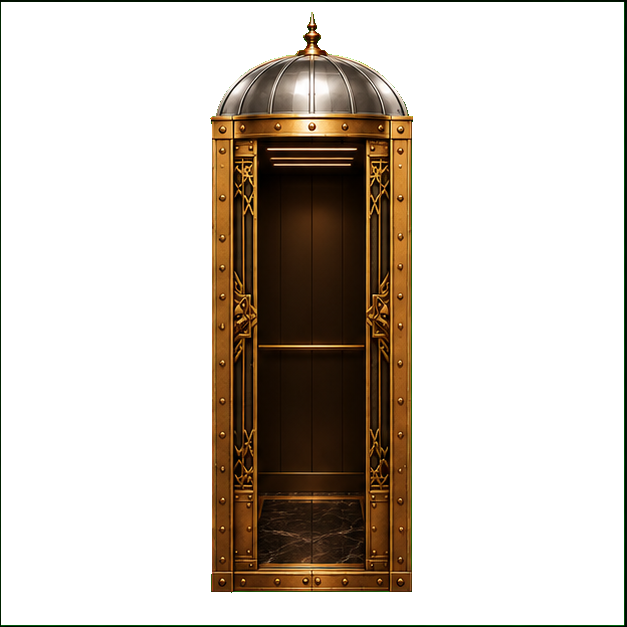
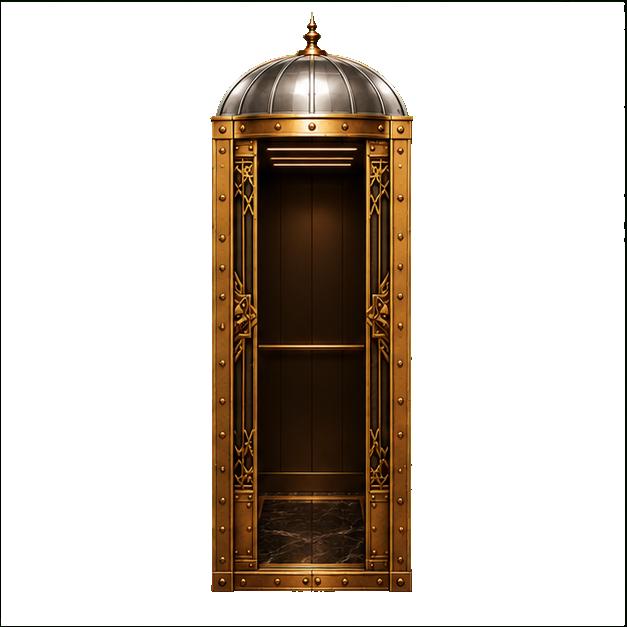
Fox Pit: elevator interior + door animation on click (ride to floor)
- Chroma-key the door frames (closed/mid1/mid2/open) to transparency.
- Click the car -> ElevatorRide: ornate doors slide OPEN to the brass interior ->
  pick a floor -> doors CLOSE -> car travels -> arrive routes into the room's
  usher->boss sequence. Replaces the plain floor-select grid on the elevator tap.

diff --git a/src/app/app/foxpit/map/Map.tsx b/src/app/app/foxpit/map/Map.tsx
@@ -37,6 +37,7 @@ export function FoxPitMap({ lone = false }: { lone?: boolean }) {
   const [hud, setHud] = useState(true);
   const [floorSelect, setFloorSelect] = useState(false);
   const [elevatorLocked, setElevatorLocked] = useState(false);
+  const [elevatorRide, setElevatorRide] = useState(false);
   // Fast-travel elevator activates only once the High Table is CLEARED (beaten),
   // independent of the architect door-unlock override.
   const elevatorUnlocked = cleared.has(ELEVATOR_UNLOCK_AT);
@@ -330,7 +331,7 @@ export function FoxPitMap({ lone = false }: { lone?: boolean }) {
             The car's BOTTOM rests on each landing (translateY(-100%) anchors bottom
             to the top:% line). Locked until the High Table is cleared (parked + dimmed). */}
         <button
-          onClick={() => (elevatorUnlocked ? setFloorSelect(true) : setElevatorLocked(true))}
+          onClick={() => (elevatorUnlocked ? setElevatorRide(true) : setElevatorLocked(true))}
           aria-label="Elevator"
           style={{
             position: "absolute",
@@ -424,6 +425,15 @@ export function FoxPitMap({ lone = false }: { lone?: boolean }) {
             setFloorSelect(false);
             enter(k);
           }}
+        />
+      )}
+
+      {elevatorRide && (
+        <ElevatorRide
+          lone={lone}
+          cleared={cleared}
+          onClose={() => setElevatorRide(false)}
+          onArrive={(k) => { setElevatorRide(false); enter(k); }}
         />
       )}
 
@@ -638,6 +648,102 @@ function FloorSelectPanel({
         >
           Close
         </button>
+      </div>
+    </div>
+  );
+}
+
+/** Door-open frame sequence (closed → open); reversed to close. */
+const ELEVATOR_FRAMES = [
+  "/foxpit/elevator/door-closed.png",
+  "/foxpit/elevator/door-mid1.png",
+  "/foxpit/elevator/door-mid2.png",
+  "/foxpit/elevator/door-open.png",
+];
+
+/**
+ * Elevator interior + ride. Click the car → the ornate doors slide OPEN to the
+ * brass interior → pick a floor → doors CLOSE → the car travels → arrive (routes
+ * into that room's usher→boss door sequence).
+ */
+function ElevatorRide({
+  lone,
+  cleared,
+  onClose,
+  onArrive,
+}: {
+  lone: boolean;
+  cleared: Set<FoxPitRoomKey>;
+  onClose: () => void;
+  onArrive: (k: FoxPitRoomKey) => void;
+}) {
+  const [phase, setPhase] = useState<"opening" | "select" | "closing" | "riding">("opening");
+  const [frame, setFrame] = useState(0);
+  const [dest, setDest] = useState<FoxPitRoomKey | null>(null);
+
+  // doors open: 0 → last
+  useEffect(() => {
+    if (phase !== "opening") return;
+    if (frame < ELEVATOR_FRAMES.length - 1) {
+      const t = setTimeout(() => setFrame((f) => f + 1), 240);
+      return () => clearTimeout(t);
+    }
+    const t = setTimeout(() => setPhase("select"), 350);
+    return () => clearTimeout(t);
+  }, [phase, frame]);
+
+  // doors close: last → 0
+  useEffect(() => {
+    if (phase !== "closing") return;
+    if (frame > 0) {
+      const t = setTimeout(() => setFrame((f) => f - 1), 240);
+      return () => clearTimeout(t);
+    }
+    const t = setTimeout(() => setPhase("riding"), 300);
+    return () => clearTimeout(t);
+  }, [phase, frame]);
+
+  // travel, then arrive at the floor
+  useEffect(() => {
+    if (phase !== "riding" || !dest) return;
+    const t = setTimeout(() => onArrive(dest), 1700);
+    return () => clearTimeout(t);
+  }, [phase, dest, onArrive]);
+
+  const pick = (k: FoxPitRoomKey) => { setDest(k); setPhase("closing"); };
+
+  return (
+    <div style={{ position: "fixed", inset: 0, zIndex: 85, background: "#05070b", display: "flex", alignItems: "center", justifyContent: "center" }}>
+      {phase === "select" && (
+        <button onClick={onClose} aria-label="Close" style={{ position: "absolute", top: 16, right: 14, zIndex: 3, border: "1px solid rgba(200,162,75,.5)", background: "rgba(3,4,7,.6)", color: "#d8c79b", borderRadius: 10, padding: "6px 12px", fontSize: 18, fontWeight: 700, cursor: "pointer" }}>✕</button>
+      )}
+
+      <div style={{ position: "relative", height: "92%", aspectRatio: "1 / 1", maxWidth: "100%" }}>
+        {/* eslint-disable-next-line @next/next/no-img-element */}
+        <img src={ELEVATOR_FRAMES[frame]} alt="Elevator" draggable={false} style={{ position: "absolute", inset: 0, width: "100%", height: "100%", objectFit: "contain", filter: "drop-shadow(0 0 44px rgba(200,162,75,.22))" }} />
+
+        {phase === "select" && (
+          <div style={{ position: "absolute", left: "50%", top: "45%", transform: "translate(-50%,-50%)", width: "60%", display: "flex", flexDirection: "column", gap: 8, animation: "foxpitFadeUp .5s ease both" }}>
+            <div style={{ textAlign: "center", fontSize: 11, letterSpacing: ".18em", color: "#e0cf9f", fontWeight: 800, textShadow: "0 2px 6px #000" }}>SELECT A FLOOR</div>
+            {FOXPIT_ROOMS.slice().reverse().map((r) => {
+              const unlocked = lone || isUnlocked(r, cleared);
+              const done = cleared.has(r.key);
+              return (
+                <button key={r.key} onClick={() => unlocked && pick(r.key)} disabled={!unlocked}
+                  style={{ display: "flex", alignItems: "center", justifyContent: "space-between", gap: 8, padding: "9px 12px", borderRadius: 10, cursor: unlocked ? "pointer" : "not-allowed", background: "rgba(6,8,12,.82)", border: `1.5px solid ${done ? "#22C55E" : unlocked ? r.accent : "#3a4653"}`, color: "#E7E7EB", filter: unlocked ? "none" : "grayscale(.5) brightness(.7)" }}>
+                  <span style={{ fontFamily: "Georgia, serif", fontSize: 14, fontWeight: 700 }}>{r.name}</span>
+                  <span style={{ fontSize: 10, fontWeight: 800, letterSpacing: ".06em", color: done ? "#22C55E" : unlocked ? r.accent : "#c8a24b" }}>{done ? "✓" : unlocked ? "GO ›" : `${keyLabel(r.needsKey!)} KEY`}</span>
+                </button>
+              );
+            })}
+          </div>
+        )}
+
+        {phase === "riding" && (
+          <div style={{ position: "absolute", left: "50%", top: "45%", transform: "translate(-50%,-50%)", textAlign: "center", animation: "foxpitFadeUp .4s ease both" }}>
+            <div style={{ fontFamily: "Georgia, serif", fontSize: 22, color: "#f5ead0", letterSpacing: ".1em", textShadow: "0 2px 12px #000" }}>Traveling…</div>
+          </div>
+        )}
       </div>
     </div>
   );
